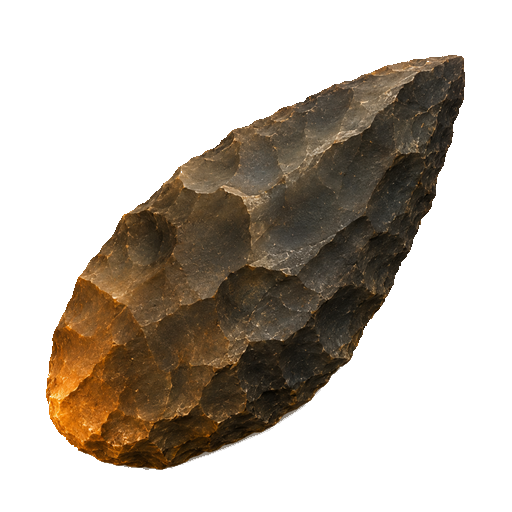
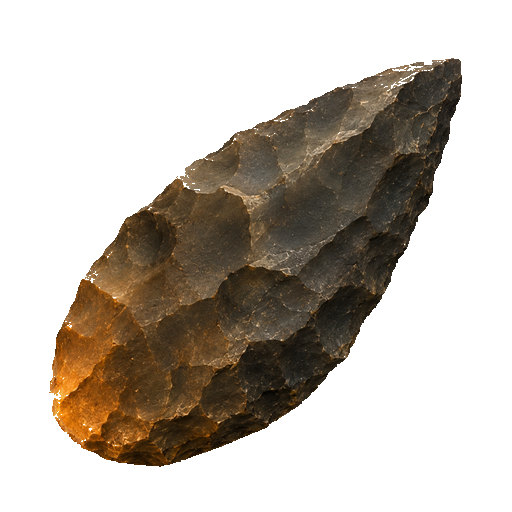
Documenta limpeza do silex

diff --git a/chunks/script-DJXGXGAM.js b/chunks/script-DJXGXGAM.js
@@ -12,7 +12,7 @@ import{A as it,B as te,C as qe,E as re,F as nt,G as st,H as ct,a as d,b as ve,c 
             <strong>${g.title}</strong>
             <p>${g.detail}</p>
           </article>
-        `}).join(""))}return{progress:f,addXp:fr,awardBadge:pr,updateLessonProgress:gr,renderProgress:_e}}function qr(e){let t={xp:0,streak:0,lastActive:"",badges:[],eraXp:Object.fromEntries(Object.keys(e).map(r=>[r,0])),lessonProgress:{},memory:[]};try{let r=JSON.parse(localStorage.getItem("historiaVivaProgress"));return{...t,...r,eraXp:{...t.eraXp,...r?.eraXp||{}},lessonProgress:{...t.lessonProgress,...r?.lessonProgress||{}},badges:r?.badges||[],memory:r?.memory||[]}}catch{return t}}var Le,Sr,lt=j(()=>{Le=["Aprendiz de Hist\xF3ria","Explorador de Fontes","Especialista em Roma","Mestre da Idade M\xE9dia","Conquistador da Hist\xF3ria de Portugal"],Sr=[{id:"first-question",title:"Primeira conversa",detail:"Fizeste uma pergunta ao historiador."},{id:"quiz-correct",title:"Resposta certeira",detail:"Acertaste uma pergunta de quiz."},{id:"source-reader",title:"Leitor de fontes",detail:"Analisaste origem, inten\xE7\xE3o ou limites de uma fonte."},{id:"timeline-reader",title:"Cart\xF3grafo do tempo",detail:"Exploraste a timeline visual."},{id:"portugal-focus",title:"Portugal em foco",detail:"Entraste no percurso de Hist\xF3ria de Portugal."}]});function Pe(e){if(Ie.has(e))return Ie.get(e);let t=new Promise(r=>{let o=new Image;o.onload=()=>r({url:e,ok:!0}),o.onerror=()=>r({url:e,ok:!1}),o.src=e,o.decode&&o.decode().then(()=>r({url:e,ok:!0}),()=>{})});return Ie.set(e,t),t}function ft(e){return new Promise(t=>{window.setTimeout(()=>t("timeout"),e)})}function ae(){return window.matchMedia?.("(max-width: 768px) and (orientation: portrait)").matches}function Cr(e){let t=ae()&&e.mobile||e.desktop;return`${pt}/${t}`}function Pr(e){let t=ae()&&e.mobile||e.desktop;return`${Ce}/${t}`}function Ar(){let t=[ae()?mt.mobile:mt.desktop,...Er.map(Cr)];return Promise.all(t.map(Pe))}function gt(){let[e,t]=Lr;return Pe(ae()&&t||e)}function Mr(e=""){let t=Ir[e];return t?Pe(Pr(t)):Promise.resolve([])}function ht(e=900){return Promise.race([Ar(),ft(e)])}function bt(e="",t=700){return Promise.race([Mr(e),ft(t)])}function vt(){return new Promise(e=>{window.requestAnimationFrame(()=>{window.requestAnimationFrame(e)})})}var pt,Ce,mt,Er,Lr,Ir,Ie,wt=j(()=>{pt="https://wvxomznvbebwtxfsvfiv.supabase.co/storage/v1/object/public/Imagens%20App%20Historia/Assets",Ce="https://wvxomznvbebwtxfsvfiv.supabase.co/storage/v1/object/public/Imagens%20App%20Historia/backgrounds",mt={desktop:`${Ce}/era-selection.webp`,mobile:`${Ce}/era-selection-portrait.webp`},Er=[{desktop:"pre-historia.webp"},{desktop:"idade-antiga.webp",mobile:"antiguidade-portrait.webp"},{desktop:"idade-media.webp",mobile:"idade-media.portrait.webp"},{desktop:"idade-moderna.webp",mobile:"idade-moderna-portrait.webp"},{desktop:"idade-contemporanea.webp",mobile:"idade-contemporanea-portrait.webp"},{desktop:"historia-de-portugal.webp",mobile:"historia-de-portugal-portrait.webp"},{desktop:"grande-jornada-historica.webp",mobile:"grande-jornada-historica-portrait.webp"}],Lr=[`${pt}/history-study.webp`],Ir={paleolitico:{desktop:"background-licao-paleolitico-desktop.webp",mobile:"background-licao-paleolitico-portrait.webp"},mesolitico:{desktop:"background-licao-mesolitico-desktop.webp",mobile:"background-licao-mesolitico-portrait.webp"},"revolucao-neolitica":{desktop:"background-licao-neolitico-desktop.webp",mobile:"background-licao-neolitico-portrait.webp"}},Ie=new Map});function yt({root:e,views:t}){let r=Array.from(t||[]),o=document.createDocumentFragment();function i(u){return r.find(l=>l.dataset.view===u)||null}function n(u){r.forEach(l=>{l!==u&&(l.classList.remove("active","is-route-entering","is-screen-preparing"),delete l.dataset.motionRoute,delete l.dataset.routeView,l.parentElement&&o.append(l))})}function c(u){if(!e)return null;let l=i(u);return l?(n(l),l.parentElement!==e&&e.append(l),l.classList.add("active"),l):null}return{show:c,getScreen:i,get mountedScreens(){return r.filter(u=>u.parentElement===e)}}}var xt=j(()=>{});function oe(e){let t=H(e.eraKey).find(l=>l.id===e.sectionId),r=ie(e.title),o=P(r),i=d[e.eraKey]?.title||"Hist\xF3ria",n=t?.title||ee[e.category]||"Li\xE7\xE3o",u=[{match:["descoberta do fogo","fogo"],mood:"fire",line:"O fogo iluminou a noite e mudou a humanidade para sempre.",preview:["Sobreviver ao frio","Dominar as chamas","Vida \xE0 volta da fogueira"]},{match:["ferramentas de pedra","pedra"],mood:"stone",line:"A pedra deixou de ser paisagem e tornou-se inten\xE7\xE3o humana.",preview:["Cortar e raspar","Aprender pela t\xE9cnica","Transformar mat\xE9ria em poder"]},{match:["caca e pesca","ca\xE7a e pesca","pesca"],mood:"hunt",line:"Ler animais, \xE1guas e esta\xE7\xF5es tornou-se uma arte de sobreviv\xEAncia.",preview:["Seguir rastos","Cooperar em grupo","Conhecer rios e florestas"]},{match:["arte rupestre","arte"],mood:"art",line:"Nas paredes da rocha, a mem\xF3ria come\xE7ou a ganhar forma.",preview:["Pigmentos e sinais","Animais pintados","Imagina\xE7\xE3o coletiva"]},{match:["ritos funerarios","ritos funer\xE1rios","funer"],mood:"rites",line:"Cuidar dos mortos revelou uma nova profundidade humana.",preview:["Mem\xF3ria do grupo","Objetos e sepulturas","Perguntas sobre a morte"]},{match:["fim da era glacial","era glacial","glacial"],mood:"ice",line:"Quando o gelo recuou, o mundo abriu caminhos novos.",preview:["Clima em mudan\xE7a","Novas paisagens","Adaptar para continuar"]},{match:["domesticacao de animais","domestica\xE7\xE3o de animais","animais"],mood:"animals",line:"A rela\xE7\xE3o com os animais come\xE7ou a mudar a vida humana.",preview:["Prote\xE7\xE3o e alimento","Proximidade di\xE1ria","Novas depend\xEAncias"]},{match:["abrigos permanentes","primeiros abrigos"],mood:"shelter",line:"Ficar mais tempo no mesmo lugar mudou a ideia de comunidade.",preview:["Abrigos est\xE1veis","Espa\xE7os partilhados","Primeiras rotinas"]},{match:["agricultura"],mood:"agriculture",line:"Produzir alimento transformou a paisagem em projeto humano.",preview:["Cultivo e sementes","Colheitas","Sedentarismo"]},{match:["aldeias e comunidade","aldeias"],mood:"village",line:"As primeiras comunidades permanentes come\xE7aram a desenhar o futuro.",preview:["Cabanas e fogueiras","Coopera\xE7\xE3o","Crescimento populacional"]},{match:["dominio dos metais","dom\xEDnio dos metais","metais"],mood:"metal",line:"O metal mudou ferramentas, conflito e poder.",preview:["Cobre, bronze e ferro","Forjas e armas","Novas hierarquias"]},{match:["comercio e trocas","com\xE9rcio e trocas","trocas"],mood:"trade",line:"As aldeias come\xE7aram a trocar recursos, t\xE9cnicas e mundos.",preview:["Rotas","Especializa\xE7\xE3o","Contacto entre povos"]},{match:["nascimento das civilizacoes","nascimento das civiliza\xE7\xF5es","civiliz"],mood:"civilization",line:"Das aldeias nasceram lideran\xE7a, muralhas e primeiras cidades.",preview:["Hierarquias","Defesa","Primeiras cidades"]}].find(l=>l.match.some(y=>o.includes(P(y))))||{mood:e.category||"default",line:kr(e),preview:["Contexto","Causas","Consequ\xEAncias"]};return{title:r,mood:u.mood,line:u.line,preview:u.preview,kicker:`${i} \xB7 ${n}`}}function ie(e){return String(e||"").split(":")[0].trim()}function kr(e){let t=e.detail||zr(e.title,e.category);return`\u201C${C(t,142)}\u201D`}function zr(e,t=""){return t==="pol\xEDtica"?"Pista: observa quem ganha autoridade, quem fica exclu\xEDdo e que institui\xE7\xF5es mudam.":t==="guerra"?"Pista: liga viol\xEAncia, recursos, alian\xE7as e efeitos sobre popula\xE7\xF5es civis.":t==="ci\xEAncia"?"Pista: pergunta que t\xE9cnica, conhecimento ou infraestrutura mudou pr\xE1ticas sociais.":t==="cultura"?"Pista: procura impactos em mem\xF3ria, educa\xE7\xE3o, identidade e circula\xE7\xE3o de ideias.":t==="religi\xE3o"?"Pista: analisa como cren\xE7a, institui\xE7\xE3o e poder social se influenciam.":e.includes("poder")||e.includes("autoridade")?"Pista: repara em quem ganha legitimidade e quem fica exclu\xEDdo.":e.includes("guerra")||e.includes("militar")?"Pista: liga conflito, recursos e mudan\xE7a pol\xEDtica.":e.includes("com\xE9rcio")||e.includes("comerciais")?"Pista: segue as redes de troca e os grupos afetados.":"Pista: transforma este momento numa causa, consequ\xEAncia ou compara\xE7\xE3o."}var $t=j(()=>{at();ct();ot()});function se(){return ke||(ke=import("./lesson-experience-OIEEOPXW.js")),ke}async function aa(){let{renderActiveLessonPanel:e}=await se();return e()}function oa(){let e=a.currentLessonId?E(a.currentLessonId):q(a.currentEra)[0];if(!e)return"";let t=oe(e);return`
+        `}).join(""))}return{progress:f,addXp:fr,awardBadge:pr,updateLessonProgress:gr,renderProgress:_e}}function qr(e){let t={xp:0,streak:0,lastActive:"",badges:[],eraXp:Object.fromEntries(Object.keys(e).map(r=>[r,0])),lessonProgress:{},memory:[]};try{let r=JSON.parse(localStorage.getItem("historiaVivaProgress"));return{...t,...r,eraXp:{...t.eraXp,...r?.eraXp||{}},lessonProgress:{...t.lessonProgress,...r?.lessonProgress||{}},badges:r?.badges||[],memory:r?.memory||[]}}catch{return t}}var Le,Sr,lt=j(()=>{Le=["Aprendiz de Hist\xF3ria","Explorador de Fontes","Especialista em Roma","Mestre da Idade M\xE9dia","Conquistador da Hist\xF3ria de Portugal"],Sr=[{id:"first-question",title:"Primeira conversa",detail:"Fizeste uma pergunta ao historiador."},{id:"quiz-correct",title:"Resposta certeira",detail:"Acertaste uma pergunta de quiz."},{id:"source-reader",title:"Leitor de fontes",detail:"Analisaste origem, inten\xE7\xE3o ou limites de uma fonte."},{id:"timeline-reader",title:"Cart\xF3grafo do tempo",detail:"Exploraste a timeline visual."},{id:"portugal-focus",title:"Portugal em foco",detail:"Entraste no percurso de Hist\xF3ria de Portugal."}]});function Pe(e){if(Ie.has(e))return Ie.get(e);let t=new Promise(r=>{let o=new Image;o.onload=()=>r({url:e,ok:!0}),o.onerror=()=>r({url:e,ok:!1}),o.src=e,o.decode&&o.decode().then(()=>r({url:e,ok:!0}),()=>{})});return Ie.set(e,t),t}function ft(e){return new Promise(t=>{window.setTimeout(()=>t("timeout"),e)})}function ae(){return window.matchMedia?.("(max-width: 768px) and (orientation: portrait)").matches}function Cr(e){let t=ae()&&e.mobile||e.desktop;return`${pt}/${t}`}function Pr(e){let t=ae()&&e.mobile||e.desktop;return`${Ce}/${t}`}function Ar(){let t=[ae()?mt.mobile:mt.desktop,...Er.map(Cr)];return Promise.all(t.map(Pe))}function gt(){let[e,t]=Lr;return Pe(ae()&&t||e)}function Mr(e=""){let t=Ir[e];return t?Pe(Pr(t)):Promise.resolve([])}function ht(e=900){return Promise.race([Ar(),ft(e)])}function bt(e="",t=700){return Promise.race([Mr(e),ft(t)])}function vt(){return new Promise(e=>{window.requestAnimationFrame(()=>{window.requestAnimationFrame(e)})})}var pt,Ce,mt,Er,Lr,Ir,Ie,wt=j(()=>{pt="https://wvxomznvbebwtxfsvfiv.supabase.co/storage/v1/object/public/Imagens%20App%20Historia/Assets",Ce="https://wvxomznvbebwtxfsvfiv.supabase.co/storage/v1/object/public/Imagens%20App%20Historia/backgrounds",mt={desktop:`${Ce}/era-selection.webp`,mobile:`${Ce}/era-selection-portrait.webp`},Er=[{desktop:"pre-historia.webp"},{desktop:"idade-antiga.webp",mobile:"antiguidade-portrait.webp"},{desktop:"idade-media.webp",mobile:"idade-media.portrait.webp"},{desktop:"idade-moderna.webp",mobile:"idade-moderna-portrait.webp"},{desktop:"idade-contemporanea.webp",mobile:"idade-contemporanea-portrait.webp"},{desktop:"historia-de-portugal.webp",mobile:"historia-de-portugal-portrait.webp"},{desktop:"grande-jornada-historica.webp",mobile:"grande-jornada-historica-portrait.webp"}],Lr=[`${pt}/history-study.webp`],Ir={paleolitico:{desktop:"background-licao-paleolitico-desktop.webp",mobile:"background-licao-paleolitico-portrait.webp"},mesolitico:{desktop:"background-licao-mesolitico-desktop.webp",mobile:"background-licao-mesolitico-portrait.webp"},"revolucao-neolitica":{desktop:"background-licao-neolitico-desktop.webp",mobile:"background-licao-neolitico-portrait.webp"}},Ie=new Map});function yt({root:e,views:t}){let r=Array.from(t||[]),o=document.createDocumentFragment();function i(u){return r.find(l=>l.dataset.view===u)||null}function n(u){r.forEach(l=>{l!==u&&(l.classList.remove("active","is-route-entering","is-screen-preparing"),delete l.dataset.motionRoute,delete l.dataset.routeView,l.parentElement&&o.append(l))})}function c(u){if(!e)return null;let l=i(u);return l?(n(l),l.parentElement!==e&&e.append(l),l.classList.add("active"),l):null}return{show:c,getScreen:i,get mountedScreens(){return r.filter(u=>u.parentElement===e)}}}var xt=j(()=>{});function oe(e){let t=H(e.eraKey).find(l=>l.id===e.sectionId),r=ie(e.title),o=P(r),i=d[e.eraKey]?.title||"Hist\xF3ria",n=t?.title||ee[e.category]||"Li\xE7\xE3o",u=[{match:["descoberta do fogo","fogo"],mood:"fire",line:"O fogo iluminou a noite e mudou a humanidade para sempre.",preview:["Sobreviver ao frio","Dominar as chamas","Vida \xE0 volta da fogueira"]},{match:["ferramentas de pedra","pedra"],mood:"stone",line:"A pedra deixou de ser paisagem e tornou-se inten\xE7\xE3o humana.",preview:["Cortar e raspar","Aprender pela t\xE9cnica","Transformar mat\xE9ria em poder"]},{match:["caca e pesca","ca\xE7a e pesca","pesca"],mood:"hunt",line:"Ler animais, \xE1guas e esta\xE7\xF5es tornou-se uma arte de sobreviv\xEAncia.",preview:["Seguir rastos","Cooperar em grupo","Conhecer rios e florestas"]},{match:["arte rupestre","arte"],mood:"art",line:"Nas paredes da rocha, a mem\xF3ria come\xE7ou a ganhar forma.",preview:["Pigmentos e sinais","Animais pintados","Imagina\xE7\xE3o coletiva"]},{match:["ritos funerarios","ritos funer\xE1rios","funer"],mood:"rites",line:"Cuidar dos mortos revelou uma nova profundidade humana.",preview:["Mem\xF3ria do grupo","Objetos e sepulturas","Perguntas sobre a morte"]},{match:["fim da era glacial","era glacial","glacial"],mood:"ice",line:"Quando o gelo recuou, o mundo abriu caminhos novos.",preview:["Clima em mudan\xE7a","Novas paisagens","Adaptar para continuar"]},{match:["domesticacao de animais","domestica\xE7\xE3o de animais","animais"],mood:"animals",line:"A rela\xE7\xE3o com os animais come\xE7ou a mudar a vida humana.",preview:["Prote\xE7\xE3o e alimento","Proximidade di\xE1ria","Novas depend\xEAncias"]},{match:["abrigos permanentes","primeiros abrigos"],mood:"shelter",line:"Ficar mais tempo no mesmo lugar mudou a ideia de comunidade.",preview:["Abrigos est\xE1veis","Espa\xE7os partilhados","Primeiras rotinas"]},{match:["agricultura"],mood:"agriculture",line:"Produzir alimento transformou a paisagem em projeto humano.",preview:["Cultivo e sementes","Colheitas","Sedentarismo"]},{match:["aldeias e comunidade","aldeias"],mood:"village",line:"As primeiras comunidades permanentes come\xE7aram a desenhar o futuro.",preview:["Cabanas e fogueiras","Coopera\xE7\xE3o","Crescimento populacional"]},{match:["dominio dos metais","dom\xEDnio dos metais","metais"],mood:"metal",line:"O metal mudou ferramentas, conflito e poder.",preview:["Cobre, bronze e ferro","Forjas e armas","Novas hierarquias"]},{match:["comercio e trocas","com\xE9rcio e trocas","trocas"],mood:"trade",line:"As aldeias come\xE7aram a trocar recursos, t\xE9cnicas e mundos.",preview:["Rotas","Especializa\xE7\xE3o","Contacto entre povos"]},{match:["nascimento das civilizacoes","nascimento das civiliza\xE7\xF5es","civiliz"],mood:"civilization",line:"Das aldeias nasceram lideran\xE7a, muralhas e primeiras cidades.",preview:["Hierarquias","Defesa","Primeiras cidades"]}].find(l=>l.match.some(y=>o.includes(P(y))))||{mood:e.category||"default",line:kr(e),preview:["Contexto","Causas","Consequ\xEAncias"]};return{title:r,mood:u.mood,line:u.line,preview:u.preview,kicker:`${i} \xB7 ${n}`}}function ie(e){return String(e||"").split(":")[0].trim()}function kr(e){let t=e.detail||zr(e.title,e.category);return`\u201C${C(t,142)}\u201D`}function zr(e,t=""){return t==="pol\xEDtica"?"Pista: observa quem ganha autoridade, quem fica exclu\xEDdo e que institui\xE7\xF5es mudam.":t==="guerra"?"Pista: liga viol\xEAncia, recursos, alian\xE7as e efeitos sobre popula\xE7\xF5es civis.":t==="ci\xEAncia"?"Pista: pergunta que t\xE9cnica, conhecimento ou infraestrutura mudou pr\xE1ticas sociais.":t==="cultura"?"Pista: procura impactos em mem\xF3ria, educa\xE7\xE3o, identidade e circula\xE7\xE3o de ideias.":t==="religi\xE3o"?"Pista: analisa como cren\xE7a, institui\xE7\xE3o e poder social se influenciam.":e.includes("poder")||e.includes("autoridade")?"Pista: repara em quem ganha legitimidade e quem fica exclu\xEDdo.":e.includes("guerra")||e.includes("militar")?"Pista: liga conflito, recursos e mudan\xE7a pol\xEDtica.":e.includes("com\xE9rcio")||e.includes("comerciais")?"Pista: segue as redes de troca e os grupos afetados.":"Pista: transforma este momento numa causa, consequ\xEAncia ou compara\xE7\xE3o."}var $t=j(()=>{at();ct();ot()});function se(){return ke||(ke=import("./lesson-experience-RYROEVJY.js")),ke}async function aa(){let{renderActiveLessonPanel:e}=await se();return e()}function oa(){let e=a.currentLessonId?E(a.currentLessonId):q(a.currentEra)[0];if(!e)return"";let t=oe(e);return`
     <section class="active-lesson-panel lesson-view" data-active-lesson="${s(e.id)}" data-era="${s(e.eraKey)}" data-section="${s(e.sectionId||"")}" data-mood="${s(t.mood)}" data-mode="intro" data-theme="${s(e.category)}">
       <div class="lesson-hero">
         <span class="lesson-hero-image" aria-hidden="true"></span>

diff --git a/bundle.js b/bundle.js
@@ -1,1 +1,1 @@
-import{b as r}from"./chunks/chunk-UEKKBUIS.js";var c=r(()=>{var s=["[data-route]","[data-flow-action]","[data-lesson-action]","[data-era]","#daily-curiosity","#shuffle-question","#question-form"].join(","),n,i=!1;function d(){let e=window.location.hash.replace(/^#\/?/,"").trim();return!e||e==="home"}function a(){return n||(document.body.classList.add("is-app-loading"),n=import("./chunks/script-Z45E23RN.js").then(e=>(i=!0,document.removeEventListener("click",o,{capture:!0}),document.removeEventListener("submit",o,{capture:!0}),e)).finally(()=>{document.body.classList.remove("is-app-loading")})),n}function o(e){if(i)return;let t=e.target?.closest?.(s);!t||t.dataset.bootstrapHandled==="true"||(e.preventDefault(),e.stopPropagation(),a().then(()=>{t.isConnected&&(t.dataset.bootstrapHandled="true",t.dispatchEvent(new MouseEvent("click",{bubbles:!0,cancelable:!0,view:window})),delete t.dataset.bootstrapHandled)}))}function u(){window.setTimeout(()=>{let e=()=>a();if("requestIdleCallback"in window){window.requestIdleCallback(e,{timeout:2200});return}e()},1400)}document.body.classList.remove("is-booting");document.addEventListener("click",o,{capture:!0});document.addEventListener("submit",o,{capture:!0});d()?u():a()});export default c();
+import{b as r}from"./chunks/chunk-UEKKBUIS.js";var c=r(()=>{var s=["[data-route]","[data-flow-action]","[data-lesson-action]","[data-era]","#daily-curiosity","#shuffle-question","#question-form"].join(","),n,i=!1;function d(){let e=window.location.hash.replace(/^#\/?/,"").trim();return!e||e==="home"}function a(){return n||(document.body.classList.add("is-app-loading"),n=import("./chunks/script-DJXGXGAM.js").then(e=>(i=!0,document.removeEventListener("click",o,{capture:!0}),document.removeEventListener("submit",o,{capture:!0}),e)).finally(()=>{document.body.classList.remove("is-app-loading")})),n}function o(e){if(i)return;let t=e.target?.closest?.(s);!t||t.dataset.bootstrapHandled==="true"||(e.preventDefault(),e.stopPropagation(),a().then(()=>{t.isConnected&&(t.dataset.bootstrapHandled="true",t.dispatchEvent(new MouseEvent("click",{bubbles:!0,cancelable:!0,view:window})),delete t.dataset.bootstrapHandled)}))}function u(){window.setTimeout(()=>{let e=()=>a();if("requestIdleCallback"in window){window.requestIdleCallback(e,{timeout:2200});return}e()},1400)}document.body.classList.remove("is-booting");document.addEventListener("click",o,{capture:!0});document.addEventListener("submit",o,{capture:!0});d()?u():a()});export default c();

diff --git a/lesson-experience.js b/lesson-experience.js
@@ -99,8 +99,8 @@ function renderStoryBlock(block, index, total, lesson = {}) {
       <span class="story-block-background cave-ambient-light" aria-hidden="true"></span>
       <span class="story-block-visual cave-visual-artifact prehistory-artifact" aria-hidden="true">
         ${prehistoryArtifact === "flint" ? `<picture class="prehistory-flint-picture">
-          <source type="image/png" srcset="assets/silex-mobile.png?v=20260527 512w, assets/silex-desktop.png?v=20260527 1024w" sizes="(max-width: 768px) 70vw, min(34vw, 506px)" />
-          <img class="prehistory-flint-sprite" src="assets/silex-desktop.png?v=20260527" alt="" width="1024" height="1024" loading="${flintLoading}" decoding="async" fetchpriority="${flintFetchPriority}" />
+          <source type="image/png" srcset="assets/silex-mobile.png?v=20260528 512w, assets/silex-desktop.png?v=20260528 1024w" sizes="(max-width: 768px) 70vw, min(34vw, 506px)" />
+          <img class="prehistory-flint-sprite" src="assets/silex-desktop.png?v=20260528" alt="" width="1024" height="1024" loading="${flintLoading}" decoding="async" fetchpriority="${flintFetchPriority}" />
         </picture>` : ""}
       </span>
       <div class="story-block-copy prehistory-stone-panel prehistory-cave-text-area prehistory-narrative-layout cave-pigment-reveal" style="--cave-line-count: ${caveRevealLineCount}">

diff --git a/chunks/lesson-experience-RYROEVJY.js b/chunks/lesson-experience-RYROEVJY.js
@@ -23,8 +23,8 @@ import{B as T,D as A,H as N,a as h,d as C,h as I,k as O,l as i,m as V,n as u,p a
       <span class="story-block-background cave-ambient-light" aria-hidden="true"></span>
       <span class="story-block-visual cave-visual-artifact prehistory-artifact" aria-hidden="true">
         ${d==="flint"?`<picture class="prehistory-flint-picture">
-          <source type="image/png" srcset="assets/silex-mobile.png?v=20260527 512w, assets/silex-desktop.png?v=20260527 1024w" sizes="(max-width: 768px) 70vw, min(34vw, 506px)" />
-          <img class="prehistory-flint-sprite" src="assets/silex-desktop.png?v=20260527" alt="" width="1024" height="1024" loading="${j}" decoding="async" fetchpriority="${R}" />
+          <source type="image/png" srcset="assets/silex-mobile.png?v=20260528 512w, assets/silex-desktop.png?v=20260528 1024w" sizes="(max-width: 768px) 70vw, min(34vw, 506px)" />
+          <img class="prehistory-flint-sprite" src="assets/silex-desktop.png?v=20260528" alt="" width="1024" height="1024" loading="${j}" decoding="async" fetchpriority="${R}" />
         </picture>`:""}
       </span>
       <div class="story-block-copy prehistory-stone-panel prehistory-cave-text-area prehistory-narrative-layout cave-pigment-reveal" style="--cave-line-count: ${w}">

diff --git a/styles.css b/styles.css
@@ -70,7 +70,7 @@
   --asset-licao-arte-rupestre-mobile: url("https://wvxomznvbebwtxfsvfiv.supabase.co/storage/v1/object/public/Imagens%20App%20Historia/Assets/arte-rupestre-portrait.webp");
   --asset-licao-arte-rupestre: var(--asset-licao-arte-rupestre-desktop);
   --asset-licao-ritos-funerarios: url("https://wvxomznvbebwtxfsvfiv.supabase.co/storage/v1/object/public/Imagens%20App%20Historia/Assets/licao-ritos-funerarios.webp");
-  --asset-silex-lascado: url("assets/silex-desktop.png?v=20260527");
+  --asset-silex-lascado: url("assets/silex-desktop.png?v=20260528");
   --asset-background-era-selection-desktop: url("https://wvxomznvbebwtxfsvfiv.supabase.co/storage/v1/object/public/Imagens%20App%20Historia/backgrounds/era-selection.webp");
   --asset-background-era-selection-mobile: url("https://wvxomznvbebwtxfsvfiv.supabase.co/storage/v1/object/public/Imagens%20App%20Historia/backgrounds/era-selection-portrait.webp");
   --asset-background-era-selection: var(--asset-background-era-selection-desktop);

diff --git a/styles/00-tokens.css b/styles/00-tokens.css
@@ -70,7 +70,7 @@
   --asset-licao-arte-rupestre-mobile: url("https://wvxomznvbebwtxfsvfiv.supabase.co/storage/v1/object/public/Imagens%20App%20Historia/Assets/arte-rupestre-portrait.webp");
   --asset-licao-arte-rupestre: var(--asset-licao-arte-rupestre-desktop);
   --asset-licao-ritos-funerarios: url("https://wvxomznvbebwtxfsvfiv.supabase.co/storage/v1/object/public/Imagens%20App%20Historia/Assets/licao-ritos-funerarios.webp");
-  --asset-silex-lascado: url("assets/silex-desktop.png?v=20260527");
+  --asset-silex-lascado: url("assets/silex-desktop.png?v=20260528");
   --asset-background-era-selection-desktop: url("https://wvxomznvbebwtxfsvfiv.supabase.co/storage/v1/object/public/Imagens%20App%20Historia/backgrounds/era-selection.webp");
   --asset-background-era-selection-mobile: url("https://wvxomznvbebwtxfsvfiv.supabase.co/storage/v1/object/public/Imagens%20App%20Historia/backgrounds/era-selection-portrait.webp");
   --asset-background-era-selection: var(--asset-background-era-selection-desktop);

diff --git a/VISUAL_SYSTEM.md b/VISUAL_SYSTEM.md
@@ -125,14 +125,14 @@ Estado atual:
 
 - Pre-Historia e a era-piloto do sistema visual.
 - Paleolitico, Mesolitico e Revolucao Neolitica ja usam story backgrounds de subpercurso.
-- O Story Block de ferramentas usa sprites transparentes de silex lascado renderizados como `<picture>`/`<img>` com `object-fit: contain`; o CSS especifico vive em `styles/05-lesson-experience.css` sob `data-prehistory-artifact="flint"`.
-- A fotografia-fonte do silex fica versionada em `assets/silex-original.png` e o sprite deve ser regenerado com `scripts/build-flint-sprite.ps1`; nao editar o sprite manualmente nem substituir por imagem gerada quando a fonte fotografica existir.
-- Em runtime, o silex deve carregar por `<picture>`/`srcset` usando `assets/silex-lascado-sprite-mobile.webp` (512w) e `assets/silex-lascado-sprite-desktop.webp` (1024w); evitar servir o PNG lossless grande no Story Block.
+- O Story Block de ferramentas usa sprites PNG transparentes de silex lascado renderizados como `<picture>`/`<img>` com `object-fit: contain`; o CSS especifico vive em `styles/05-lesson-experience.css` sob `data-prehistory-artifact="flint"`.
+- A fotografia-fonte do silex fica versionada em `assets/silex-original.png`; os sprites finais sao `assets/silex-mobile.png` (512w) e `assets/silex-desktop.png` (1024w). Ao regenerar, remover totalmente fundo branco, halos claros e sombras embutidas antes de atualizar o cache-buster da URL.
+- Em runtime, o silex deve carregar por `<picture>`/`srcset` usando os PNGs transparentes versionados (`?v=...`). Sempre subir o valor de `?v=` quando o pixel do sprite muda, porque os assets em `assets/` sao servidos com cache longo.
 - Artefactos pre-historicos realistas devem ter sombra de contacto, sombra projetada curta na parede, luz quente lateral e contraste mineral suficiente para mostrar lascas e fraturas; evitar shapes low-poly, icones abstratos ou pedra cinzenta uniforme.
 - O silex deve ler como pedra lascada, nao como objeto escuro com textura aplicada: usar contraste local, reflexos frios/acinzentados nas faces partidas e um rim light quente vindo da fogueira inferior esquerda.
-- Sprites fotograficos precisam de integracao ambiental sem destruir fidelidade: preservar cor, nitidez, fraturas e microtextura no PNG; aplicar apenas sombras, luz ambiente e overlays suaves no CSS para parecerem objectos fisicos iluminados dentro da gruta, nao imagens sobrepostas.
+- Sprites fotograficos precisam de integracao ambiental sem destruir fidelidade: preservar cor, nitidez, fraturas e microtextura no PNG. Para o silex, nao aplicar `drop-shadow`, halos, glows ou filtros de cor no CSS; qualquer sombra estranha ou borda clara deve ser removida do sprite, nao compensada com efeitos.
 - A composicao do silex deve preservar impacto sem monopolizar a cena: no Story Block de ferramentas, usar escala cerca de 12% menor que a primeira integracao (`clamp(252px, 27.3vw, 421px)` desktop/tablet e `clamp(211px, 61.6vw, 297px)` mobile), compensando com deslocamento ligeiro para esquerda/baixo para abrir espaco ao texto.
-- Depois da escala estar equilibrada, nao continuar a reduzir o silex; melhorar presenca fisica com descida leve (c. 16-18px), rotacao final proxima de `-5deg`, sombra de contacto curta e color grading quente por CSS.
+- Depois da escala estar equilibrada, nao continuar a reduzir o silex; manter descida leve (c. 16-18px) e rotacao final proxima de `-5deg`, sem sombra de contacto nem color grading CSS no artefacto.
 - Texto narrativo pre-historico deve parecer pigmento aplicado na parede: usar cor ocre/barro, mascara irregular, sombras subtis, `mix-blend-mode` quando legivel e animacao de revelacao apenas no story block ativo.
 - A cor do texto pintado deve priorizar leitura antes do efeito: usar ocre claro/barro claro para o corpo, reservar vermelhos escuros apenas como variacao subtil, e validar contraste em desktop e mobile.
 - Luz de fogueira pode ter flicker e poeira/cinza discretos em pseudo-elementos, mas deve respeitar `prefers-reduced-motion` e animar apenas `opacity`, `transform` ou `background-position`.
